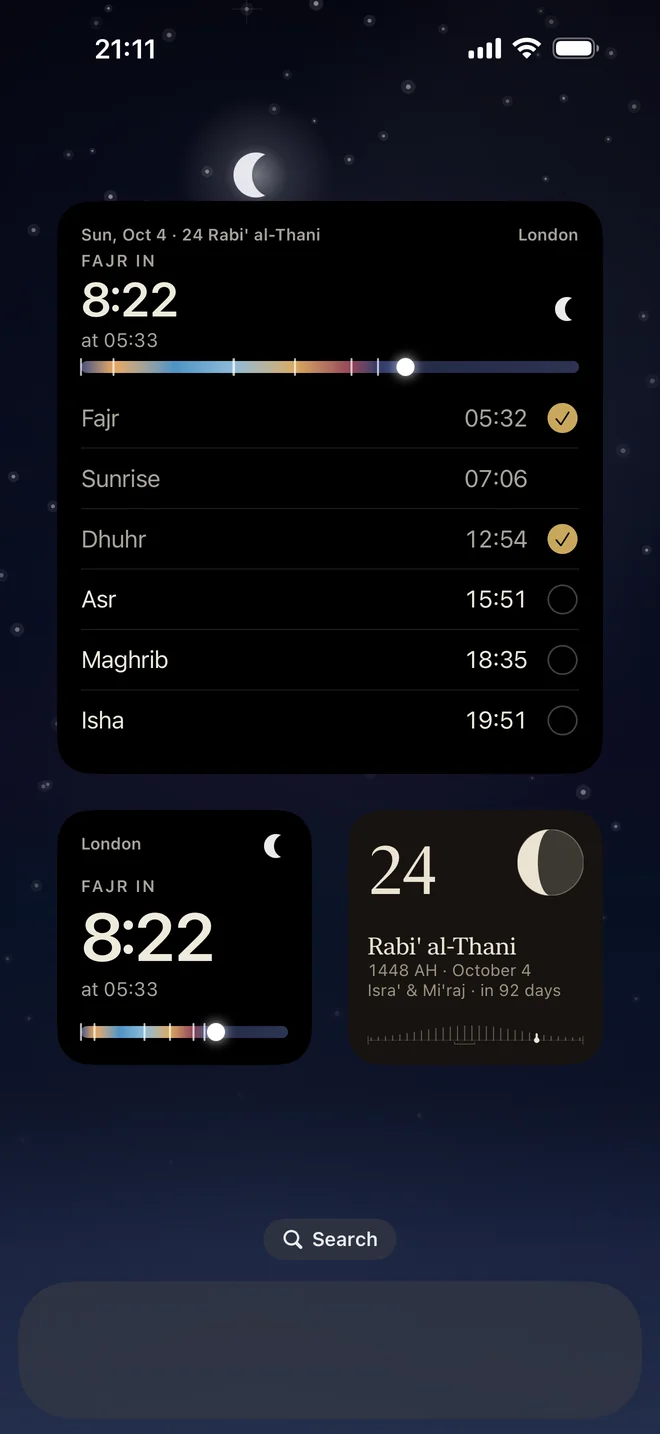
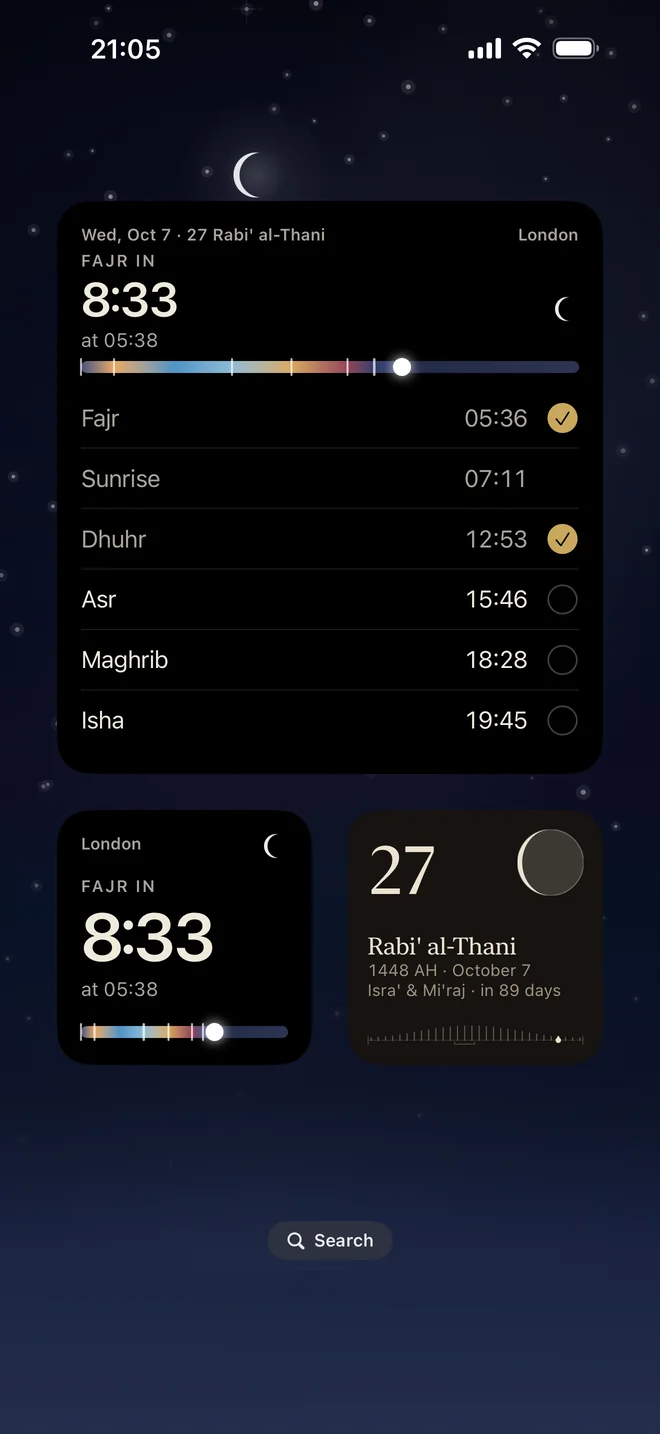
Search fixes, the temporary contact email, and widgets with no empty dock
The title now says what people search for ("Quran app to read, memorize and
pray"). The home page tells search engines what the app is (no rating yet),
iPhone Safari shows Apple's Get bar on the home and Support pages, the old
name Hifz Quran is said on the home page and answered on Support, and the
sitemap gives each page's date.

Every page's email is contact@farhanhossain.com for now, and Support's
mail subject says Quran Pages, not Hifz Quran. The widgets picture loses the
simulator's empty dock.

diff --git a/index.html b/index.html
@@ -3,13 +3,13 @@
 <head>
 <meta charset="utf-8">
 <meta name="viewport" content="width=device-width, initial-scale=1, viewport-fit=cover">
-<title>Quran Pages · Read, repeat, pray</title>
+<title>Quran Pages · Quran app to read, memorize and pray</title>
 <link rel="canonical" href="https://hifzquran.org/">
 <meta name="description" content="The Quran on pages that match the printed book. Any ayah on repeat, tafsir, and prayer times for your city. Free forever, no ads, no account.">
 <link rel="icon" type="image/png" sizes="32x32" href="assets/img/favicon-32.png">
 <link rel="icon" type="image/png" sizes="64x64" href="assets/img/favicon-64.png">
 <link rel="apple-touch-icon" href="assets/img/apple-touch-icon.png">
-<meta property="og:title" content="Quran Pages · Read, repeat, pray">
+<meta property="og:title" content="Quran Pages · Quran app to read, memorize and pray">
 <meta property="og:description" content="The Quran on pages that match the printed book. Any ayah on repeat, tafsir, and prayer times for your city. Free forever, no ads, no account.">
 <meta property="og:image" content="https://hifzquran.org/assets/img/og.png">
 <meta property="og:image:width" content="1200">
@@ -17,10 +17,46 @@
 <meta property="og:type" content="website">
 <meta property="og:url" content="https://hifzquran.org">
 <meta name="twitter:card" content="summary_large_image">
-<meta name="twitter:title" content="Quran Pages · Read, repeat, pray">
+<meta name="twitter:title" content="Quran Pages · Quran app to read, memorize and pray">
 <meta name="twitter:description" content="The Quran on pages that match the printed book. Free forever, no ads, no account.">
 <meta name="twitter:image" content="https://hifzquran.org/assets/img/og.png">
 <meta name="theme-color" content="#FAF6EC">
+<!-- iPhone Safari shows Apple's own bar with Get or Open at the top -->
+<meta name="apple-itunes-app" content="app-id=6792413377">
+<!-- What the app is, for search engines. No rating here until a store has
+     about 50 ratings (the owner's rule, 26 October 2026). -->
+<script type="application/ld+json">
+{
+  "@context": "https://schema.org",
+  "@type": "MobileApplication",
+  "name": "Quran Pages",
+  "alternateName": "Hifz Quran",
+  "url": "https://hifzquran.org/",
+  "description": "The Quran on pages that match the printed book, any ayah on repeat until you memorize it, tafsir for every ayah, and prayer times for your city.",
+  "applicationCategory": "ReferenceApplication",
+  "operatingSystem": "iOS 17 or later, Android 8.0 or later",
+  "inLanguage": "en",
+  "image": "https://hifzquran.org/assets/img/app-icon.png",
+  "screenshot": [
+    "https://hifzquran.org/assets/shots/mushaf.png",
+    "https://hifzquran.org/assets/shots/repeat.png",
+    "https://hifzquran.org/assets/shots/salah.png"
+  ],
+  "offers": {
+    "@type": "Offer",
+    "price": "0",
+    "priceCurrency": "USD"
+  },
+  "sameAs": [
+    "https://apps.apple.com/us/app/quran-pages-read-repeat/id6792413377",
+    "https://play.google.com/store/apps/details?id=com.hifzquran.app"
+  ],
+  "publisher": {
+    "@type": "Organization",
+    "name": "Blue Tomato Studio LLC"
+  }
+}
+</script>
 <link rel="stylesheet" href="assets/styles.css?v=20261026">
 </head>
 <body>
@@ -420,9 +456,10 @@
         <a href="support.html">Support</a>
         <a href="privacy.html">Privacy</a>
         <a href="terms.html">Terms</a>
-        <a href="mailto:contact@bluetomatostudio.com">Contact</a>
+        <a href="mailto:contact@farhanhossain.com">Contact</a>
       </div>
       <p class="foot-note">© 2026 Blue Tomato Studio LLC · Made by Farhan Hossain</p>
+      <p class="foot-note">Quran Pages used to be called Hifz Quran.</p>
       <p class="foot-note">Apple, the Apple logo, iPhone, iPad and Apple Pencil are trademarks of Apple Inc., registered in the U.S. and other countries and regions. App Store is a service mark of Apple Inc. Android and Google Play are trademarks of Google LLC.</p>
     </div>
   </div>

diff --git a/support.html b/support.html
@@ -17,6 +17,7 @@
 <meta name="twitter:card" content="summary_large_image">
 <meta name="twitter:image" content="https://hifzquran.org/assets/img/og.png">
 <meta name="theme-color" content="#FAF6EC">
+<meta name="apple-itunes-app" content="app-id=6792413377">
 <link rel="stylesheet" href="assets/styles.css?v=20261026">
 </head>
 <body>
@@ -49,7 +50,7 @@
   <p class="updated">A real person reads every email.</p>
 
   <div class="callout">
-    <p><strong>Need help?</strong> Email <a href="mailto:contact@bluetomatostudio.com?subject=Hifz%20Quran%20support">contact@bluetomatostudio.com</a>
+    <p><strong>Need help?</strong> Email <a href="mailto:contact@farhanhossain.com?subject=Quran%20Pages%20support">contact@farhanhossain.com</a>
     and tell us what is happening. We usually reply within a few days, insha'Allah.</p>
   </div>
 
@@ -64,6 +65,10 @@
   </ul>
 
   <h2>Common questions</h2>
+
+  <h3>Is this the Hifz Quran app?</h3>
+  <p>Yes. Quran Pages used to be called Hifz Quran. It is the same app. If you had Hifz Quran, it updated to
+  Quran Pages and kept your place, your settings and your saved recitations.</p>
 
   <h3>Is there an Android version?</h3>
   <p>Yes. Quran Pages is <a href="https://play.google.com/store/apps/details?id=com.hifzquran.app">on Google Play</a>. It is the same app as on iPhone and iPad: the
@@ -163,7 +168,7 @@
   hifz and your tajweed.</p>
 
   <h2>Still stuck?</h2>
-  <p>Email <a href="mailto:contact@bluetomatostudio.com?subject=Hifz%20Quran%20support">contact@bluetomatostudio.com</a> with
+  <p>Email <a href="mailto:contact@farhanhossain.com?subject=Quran%20Pages%20support">contact@farhanhossain.com</a> with
   your iPhone or iPad model and iOS version, and a short note about what happened. It helps us find the problem.</p>
 
   <div class="signoff">
@@ -187,7 +192,7 @@
         <a href="support.html">Support</a>
         <a href="privacy.html">Privacy</a>
         <a href="terms.html">Terms</a>
-        <a href="mailto:contact@bluetomatostudio.com">Contact</a>
+        <a href="mailto:contact@farhanhossain.com">Contact</a>
       </div>
       <p class="foot-note">© 2026 Blue Tomato Studio LLC · Made by Farhan Hossain</p>
       <p class="foot-note">Apple, the Apple logo, iPhone, iPad and Apple Pencil are trademarks of Apple Inc., registered in the U.S. and other countries and regions. App Store is a service mark of Apple Inc. Android and Google Play are trademarks of Google LLC.</p>

diff --git a/privacy.html b/privacy.html
@@ -59,7 +59,7 @@
   <p>This policy explains what Quran Pages ("the app", until version 3.0 called Hifz Quran) does with your information. Quran Pages is
   made by Blue Tomato Studio LLC ("we", "us"), which is responsible for your information under this policy (the "data controller",
   in the words of European law). If anything here is unclear, email
-  <a href="mailto:contact@bluetomatostudio.com">contact@bluetomatostudio.com</a>.</p>
+  <a href="mailto:contact@farhanhossain.com">contact@farhanhossain.com</a>.</p>
 
   <div class="callout">
     <p><strong>What changed in this version.</strong> On iPad and iPhone Duo you can now write on the page with
@@ -208,7 +208,7 @@
   first.</p>
 
   <h2>13. Contact</h2>
-  <p>Questions about privacy? Email <a href="mailto:contact@bluetomatostudio.com">contact@bluetomatostudio.com</a>.</p>
+  <p>Questions about privacy? Email <a href="mailto:contact@farhanhossain.com">contact@farhanhossain.com</a>.</p>
 
   <div class="signoff">
     <span class="mark" aria-hidden="true"></span>
@@ -231,7 +231,7 @@
         <a href="support.html">Support</a>
         <a href="privacy.html">Privacy</a>
         <a href="terms.html">Terms</a>
-        <a href="mailto:contact@bluetomatostudio.com">Contact</a>
+        <a href="mailto:contact@farhanhossain.com">Contact</a>
       </div>
       <p class="foot-note">© 2026 Blue Tomato Studio LLC · Made by Farhan Hossain</p>
       <p class="foot-note">Apple, the Apple logo, iPhone and iPad are trademarks of Apple Inc., registered in the U.S. and other countries and regions. App Store is a service mark of Apple Inc. Android and Google Play are trademarks of Google LLC.</p>

diff --git a/terms.html b/terms.html
@@ -213,7 +213,7 @@
 
   <h2>18. Contact</h2>
   <p>Questions about these Terms? Email
-  <a href="mailto:contact@bluetomatostudio.com">contact@bluetomatostudio.com</a>.</p>
+  <a href="mailto:contact@farhanhossain.com">contact@farhanhossain.com</a>.</p>
 
   <div class="signoff">
     <span class="mark" aria-hidden="true"></span>
@@ -236,7 +236,7 @@
         <a href="support.html">Support</a>
         <a href="privacy.html">Privacy</a>
         <a href="terms.html">Terms</a>
-        <a href="mailto:contact@bluetomatostudio.com">Contact</a>
+        <a href="mailto:contact@farhanhossain.com">Contact</a>
       </div>
       <p class="foot-note">© 2026 Blue Tomato Studio LLC · Made by Farhan Hossain</p>
       <p class="foot-note">Apple, the Apple logo, iPhone and iPad are trademarks of Apple Inc., registered in the U.S. and other countries and regions. App Store is a service mark of Apple Inc. Android and Google Play are trademarks of Google LLC.</p>

diff --git a/tools/export_assets.py b/tools/export_assets.py
@@ -30,6 +30,8 @@ PEN = os.path.expanduser("~/Desktop/Blue Tomato Studio/Hifz/Quran Pages 3.2 Duo 
 # The open iPhone Duo's screen outline, from the simulator's device profile.
 DUO_MASK = "/Library/Developer/CoreSimulator/Profiles/DeviceTypes/iPhone Duo.simdevicetype/Contents/Resources/BF0DC480-5EE2-4EC1-B02B-C75E94759832.pdf"
 PARTS = set(sys.argv[1:]) or {"skies", "screens", "wide", "icons"}
+if "screens" in PARTS:
+    PARTS.add("widgets")
 
 os.makedirs(f"{SITE}/sky", exist_ok=True)
 os.makedirs(f"{SITE}/shots", exist_ok=True)
@@ -76,7 +78,22 @@ for name, asset in (frames.items() if "skies" in PARTS else ()):
 screens = {"01_quran": "quran-day", "12_night": "quran-night", "01_mushaf": "mushaf",
            "02_repeat": "repeat", "05_tajweed": "tajweed",
            "06_salah": "salah", "08_dua": "dua",
-           "04_indopak": "indopak", "09_widgets": "widgets"}
+           "04_indopak": "indopak"}
+
+def clear_dock(im):
+    """The simulator's Home Screen has an empty dock: a pale bar with no apps
+    in it. It is iOS's, not the app's, so it goes: each row of it takes the
+    night sky from the screen's two edges, blended across."""
+    im = im.copy(); px = im.load(); W, H = im.size
+    top, x0, x1 = round(H * 0.886), round(W * 0.015), round(W * 0.985)
+    for y in range(top, H):
+        left = [sum(px[x, y][c] for x in range(2, x0 - 2)) / (x0 - 4) for c in range(3)]
+        right = [sum(px[x, y][c] for x in range(x1 + 2, W - 2)) / (W - x1 - 4) for c in range(3)]
+        for x in range(x0, x1):
+            t = (x - x0) / (x1 - x0)
+            px[x, y] = tuple(round(left[c] * (1 - t) + right[c] * t) for c in range(3))
+    return im
+
 if "screens" in PARTS:
     print("screens (2x for a 330pt phone)")
     W = 660
@@ -84,6 +101,13 @@ if "screens" in PARTS:
         im = Image.open(f"{SHOTS}/{src}.png").convert("RGB")
         h = round(im.height * W / im.width)
         save_pair(im.resize((W, h), Image.LANCZOS), f"{SITE}/shots/{dst}")
+if "widgets" in PARTS:
+    print("widgets (2x for a 330pt phone, the empty dock taken out)")
+    W = 660
+    im = clear_dock(Image.open(f"{SHOTS}/09_widgets.png").convert("RGB"))
+    h = round(im.height * W / im.width)
+    save_pair(im.resize((W, h), Image.LANCZOS), f"{SITE}/shots/widgets")
+if "screens" in PARTS:
     # The iPad on its side, two pages open: 2x for the 960pt column it fills.
     print("ipad (2x for a 960pt column)")
     W = 1920

diff --git a/README.md b/README.md
@@ -88,6 +88,11 @@ Bump the number on any edit to either file.
 
 ## Notes
 
+- **The contact email is `contact@farhanhossain.com` for now** (the owner's
+  word, 26 October 2026), until `contact@bluetomatostudio.com` works again.
+  Every page uses it. The apps' own Contact button in Settings still opens the
+  Blue Tomato address until a new release changes it.
+
 - Fonts are bundled. Fraunces is OFL; the KFGQPC Uthmanic Hafs font is free to
   use and distribute (not to modify or sell), the same terms under which the
   app ships it.
